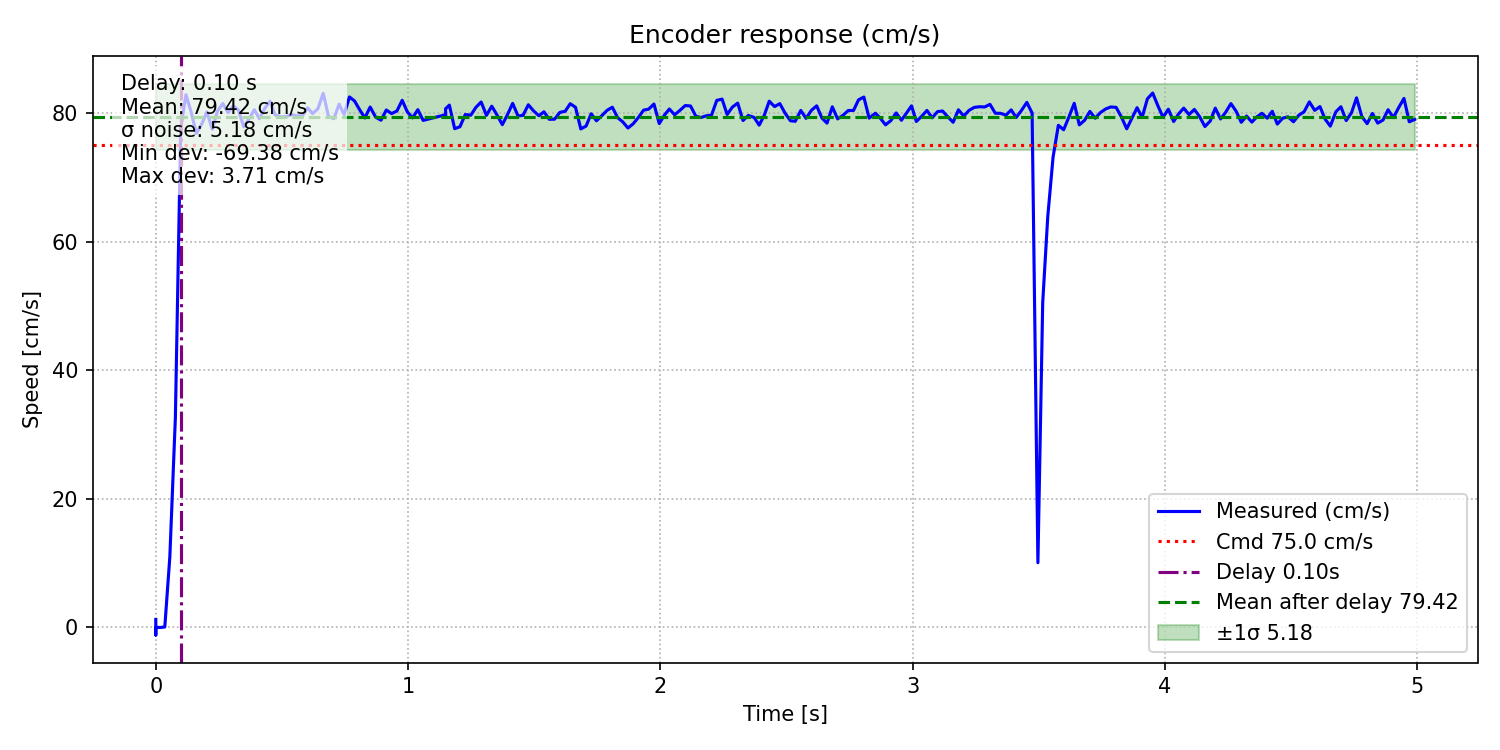
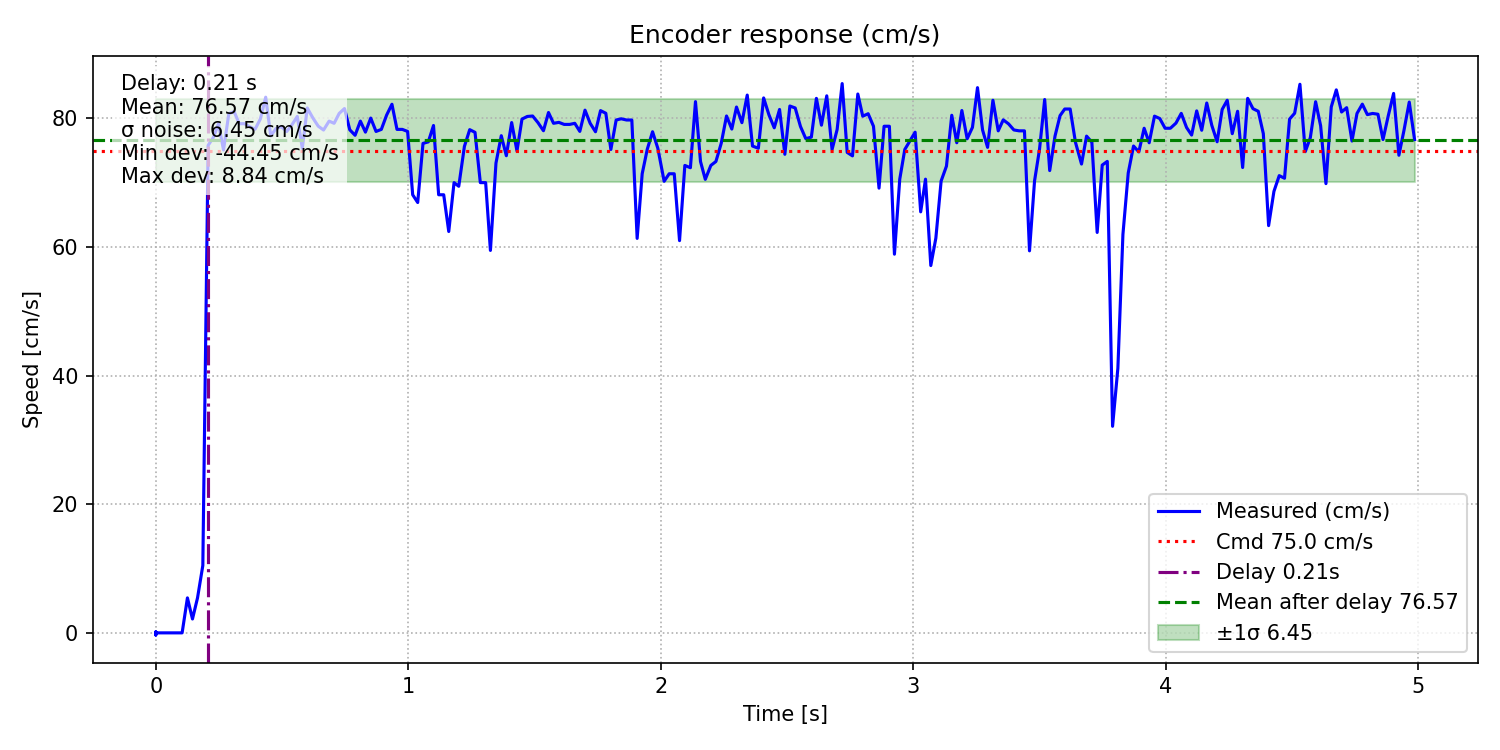
yaw_reset

diff --git a/src/control/include/PathManager.h b/src/control/include/PathManager.h
@@ -24,15 +24,15 @@ namespace PathManager {
 
 inline std::atomic<bool> path_manager_initialized = false;
 inline ros::NodeHandle* nh = nullptr;
-inline PathPlanner path_planner{0.25, 40, 0.125};
+inline PathPlanner path_planner{0.32, 40, 0.1};
 
-inline double T = 0.125;
+inline double T = 0.1;
 inline int N = 40;
-inline double v_ref = 0.25;
+inline double v_ref = 0.32;
 inline std::string pathName = "speedrun";
 
 inline double density = 1.0 / T / v_ref;
-inline double region_of_acceptance = 0.03076923 * 3 * (0.125 * 1.3) / density;
+inline double region_of_acceptance = 0.03076923 * 3 * (0.1 * 1.3) / density;
 inline double region_of_acceptance_cw = region_of_acceptance / 1.5;
 inline double region_of_acceptance_hw = region_of_acceptance * 1.5;
 

diff --git a/Embedded_Platform/Embedded_2024/scripts/encoder_noise_test.py b/Embedded_Platform/Embedded_2024/scripts/encoder_noise_test.py
@@ -165,7 +165,7 @@ def save_plot(times: list[float], speeds: list[float], cmd_speed: float, delay: 
 
 def main() -> None:
     ap = argparse.ArgumentParser(description="Constant‑speed noise test with delay estimation (cm/s)")
-    ap.add_argument("--cmd", type=float, default=75, help="Commanded speed [cm/s]")
+    ap.add_argument("--cmd", type=float, default=50, help="Commanded speed [cm/s]")
     ap.add_argument("--steer", type=float, default=0, help="Steering angle [deg]")
     ap.add_argument("--dur", type=float, default=5, help="Duration [s]")
     ap.add_argument("--csv", type=Path, help="Save raw data to CSV")

diff --git a/Embedded_Platform/Embedded_2024/source/periodics/encoder.cpp b/Embedded_Platform/Embedded_2024/source/periodics/encoder.cpp
@@ -21,7 +21,7 @@ CEncoder::CEncoder(uint32_t f_periodTicks,
       m_pwm(pwm_pin),
       m_serial(f_serial),
       m_periodTicks(f_periodTicks),
-      DEGREE_PER_CM(145.0f)
+      DEGREE_PER_CM(-145.0f)
 {
     _kf.Q_angle = 0.005f;    // deg²  (slow wander)
     _kf.Q_speed = 6.0f;      // (deg/s)²  (covers 0→50 cm/s braking)
@@ -319,8 +319,8 @@ float CEncoder::getLinearAcceleration() {
 }
 
 void CEncoder::_run() {
-    readAngularSpeedKf();
-    // readAngularSpeed();
+    // readAngularSpeedKf();
+    readAngularSpeed();
     
     // displacementDeg = getTotalDisplacementDegrees(); 
 }

diff --git a/Embedded_Platform/Embedded_2024/include/periodics/encoder.hpp b/Embedded_Platform/Embedded_2024/include/periodics/encoder.hpp
@@ -118,7 +118,7 @@ private:
     float               m_dt;                 ///< dt in seconds
     float               m_prevAngle{0.0f};   ///< last angle for derivative
     float               m_prevSpeed{0.0f};   ///< last speed for derivative
-    float               DEGREE_PER_CM{145.0f}; ///< degrees per cm
+    float               DEGREE_PER_CM{-145.0f}; ///< degrees per cm
     Kalman2D     _kf;
     int          _unwrapRevs      = 0;   // revolution counter for unwrapping
     float        _prevRawAngleDeg = 0.0f;

diff --git a/src/gui/src/widgets/camera/hud.py b/src/gui/src/widgets/camera/hud.py
@@ -161,7 +161,7 @@ class CameraOverlay(QtWidgets.QOpenGLWidget):
 
         self.draw_detection_boxes()
         self.draw_lane_indicator()
-        self.shader_renderer.grid_model.draw(self.proj_mat, self.view_mat, color=(1.0, 1.0, 1.0), cell_size=0.1)
+        self.shader_renderer.grid_model.draw(self.proj_mat, self.view_mat, color=(1.0, 1.0, 1.0), cell_size=0.3048)
         self.draw_measurement_points()
         self.update_mouse_pos()
 

diff --git a/Embedded_Platform/Embedded_2024/source/periodics/imu.cpp b/Embedded_Platform/Embedded_2024/source/periodics/imu.cpp
@@ -91,7 +91,7 @@ namespace periodics{
 
         IMU_LOCK;                               // stop imuTask() using I²C
 
-        init_euler_h_deg += (yaw − targetDeg);
+        init_euler_h_deg = (targetDeg-yaw);
         while(init_euler_h_deg >= 360.0f) init_euler_h_deg -= 360.0f;
         while(init_euler_h_deg < 0.0f) init_euler_h_deg += 360.0f;
 
